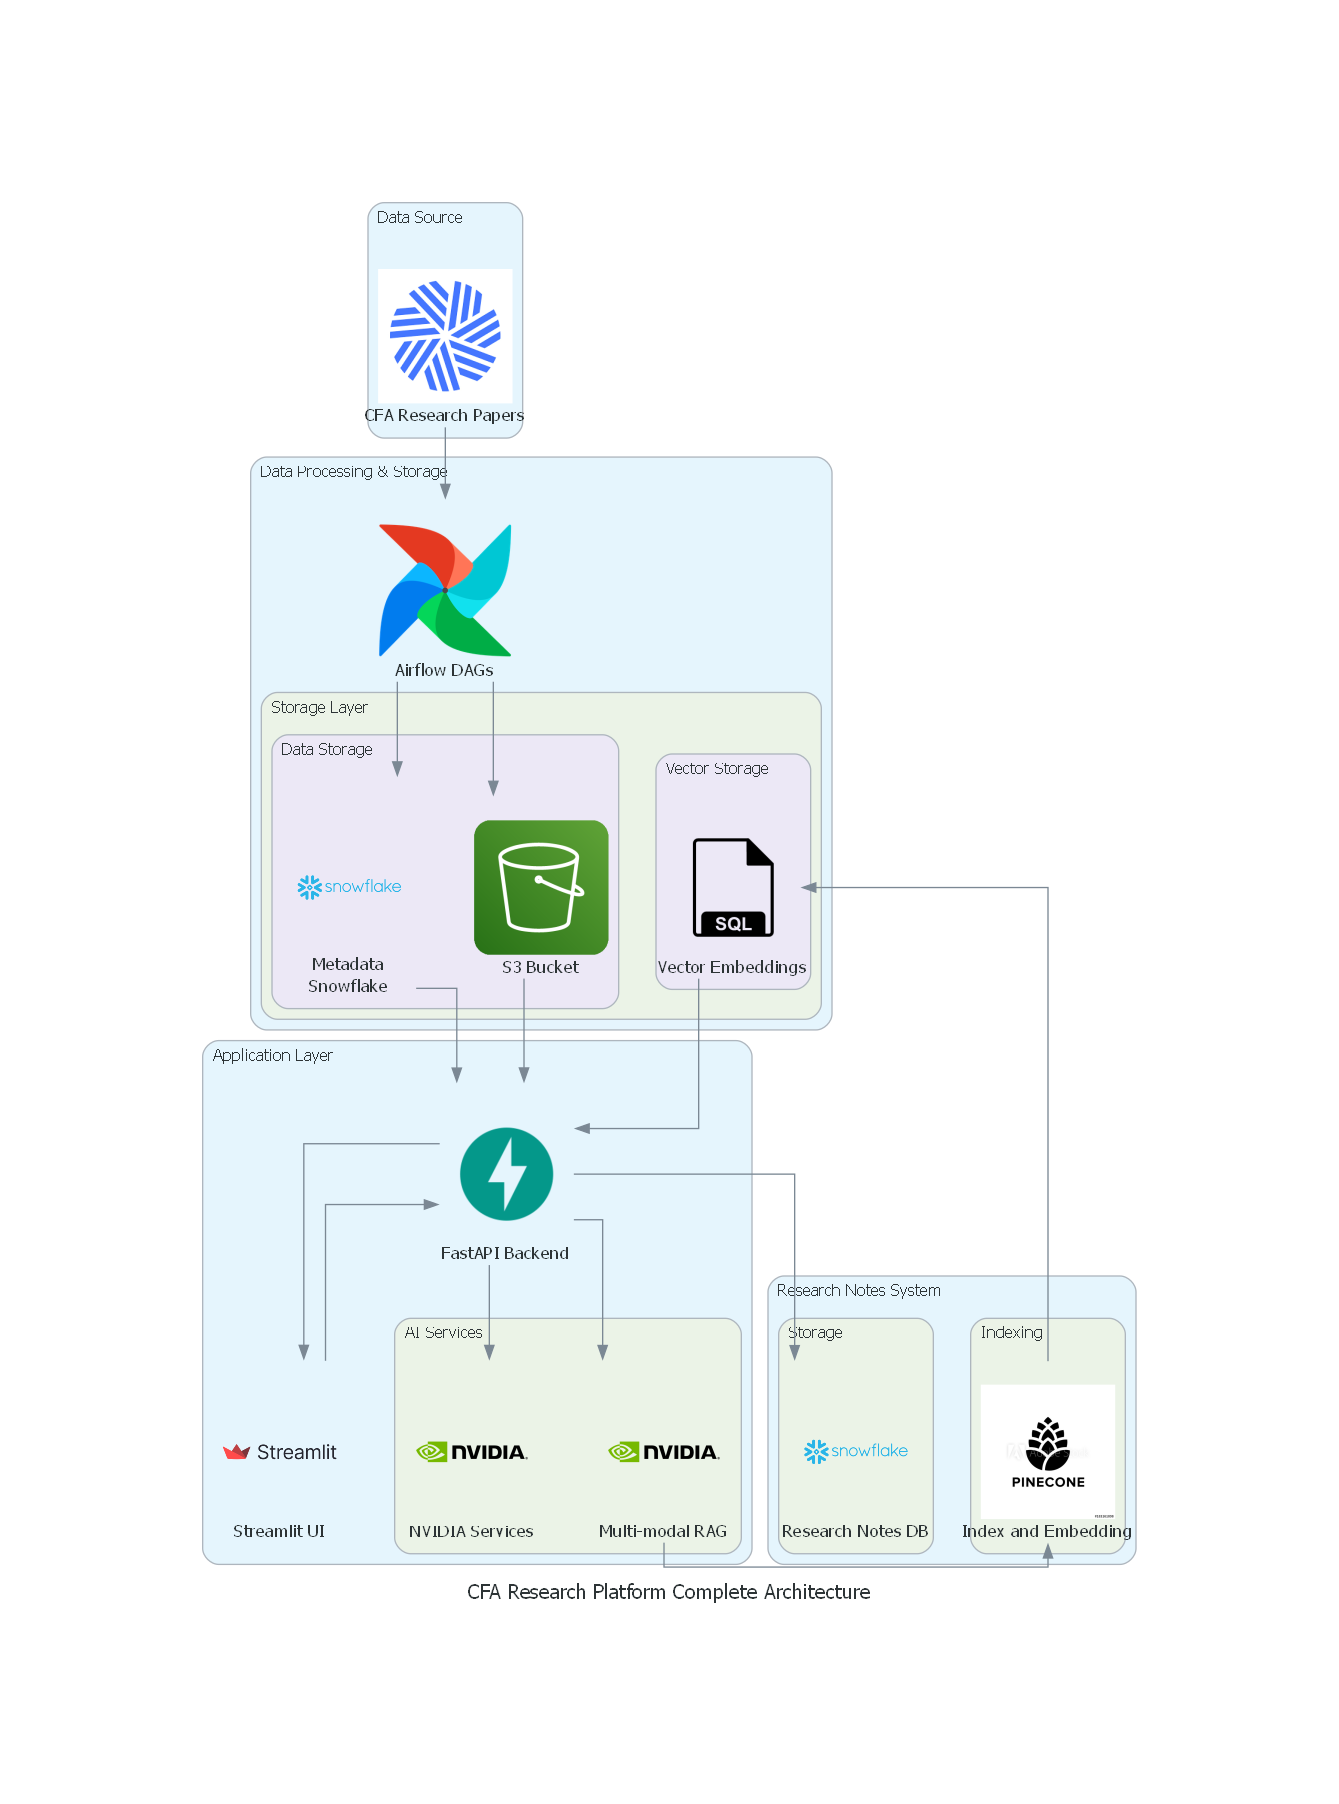
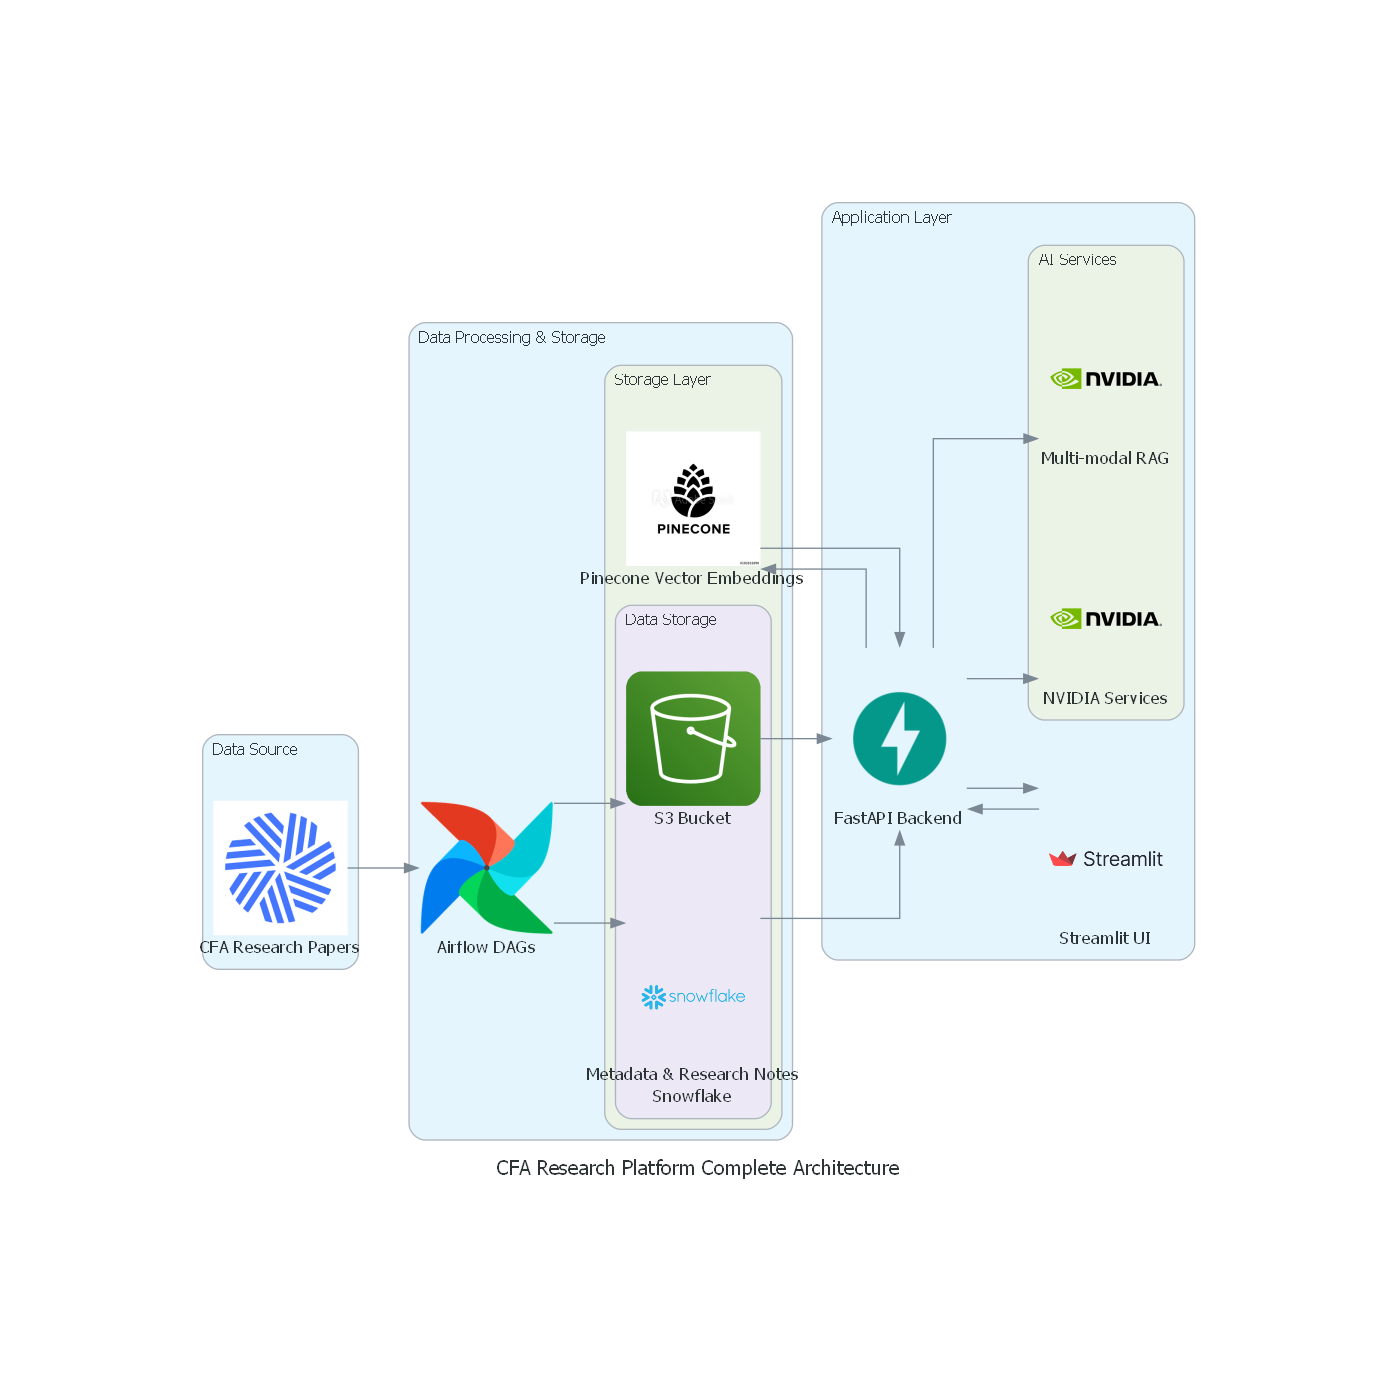
Made diagram changes

Changed region(s): [[0.1225, 0.0935, 0.8574, 0.9043]]

diff --git a/Diagrams/diagramsCode.py b/Diagrams/diagramsCode.py
@@ -1,0 +1,52 @@
+
+from diagrams import Diagram, Cluster
+from diagrams.aws.storage import S3
+from diagrams.onprem.workflow import Airflow
+from diagrams.generic.database import SQL
+from diagrams.programming.framework import FastAPI
+from diagrams.programming.language import Python
+from diagrams.custom import Custom
+
+with Diagram("CFA Research Platform Complete Architecture", filename="cfa_research_platform", show=True, direction="LR"):
+    # Data Source
+    with Cluster("Data Source"):
+        cfa_source = Custom("CFA Research Papers", "./cfa.jpeg")
+
+    # Data Processing Layer
+    with Cluster("Data Processing & Storage"):
+        airflow = Airflow("Airflow DAGs")
+        
+        with Cluster("Storage Layer"):
+            with Cluster("Data Storage"):
+                # Snowflake metadata with "Research Notes" label
+                snowflake_db = Custom("Metadata & Research Notes\nSnowflake", "./snow.png")
+                s3_bucket = S3("S3 Bucket")
+            
+            # Vector Storage directly in Pinecone
+            pinecone_db = Custom("Pinecone Vector Embeddings", "./pinecone.jpeg")
+    
+    # Application Layer
+    with Cluster("Application Layer"):
+        fastapi = FastAPI("FastAPI Backend")
+        streamlit = Custom("Streamlit UI", "./streamlit.jpeg")
+
+        with Cluster("AI Services"):
+            nvidia = Custom("NVIDIA Services", "./nvidia.jpeg")
+            rag = Custom("Multi-modal RAG", "./nvidia.jpeg")
+    
+    # Define the flows
+    # Data Ingestion Flow
+    cfa_source >> airflow
+    airflow >> s3_bucket
+    airflow >> snowflake_db
+    
+    # Application Flow
+    snowflake_db >> fastapi
+    s3_bucket >> fastapi
+    pinecone_db >> fastapi  # Arrow from Pinecone to FastAPI
+    fastapi >> streamlit
+    fastapi >> nvidia
+    fastapi >> rag
+    
+    # Embedding Creation Flow
+    streamlit >> fastapi >> pinecone_db
